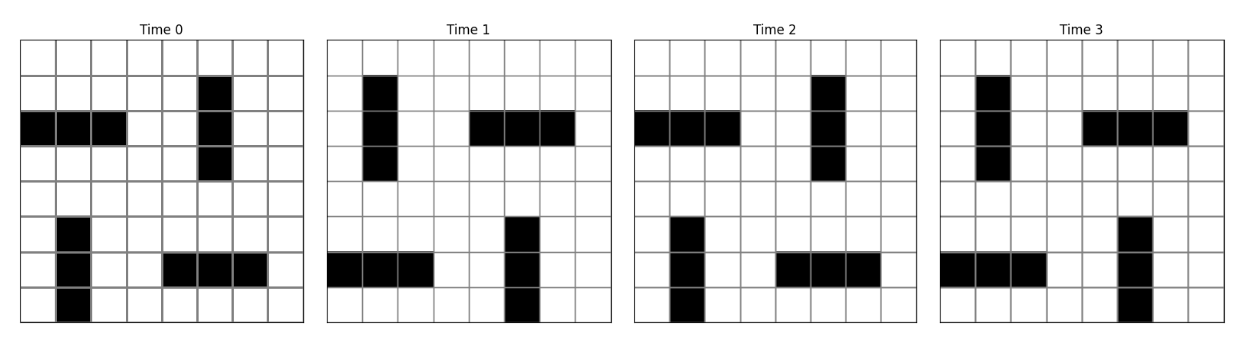
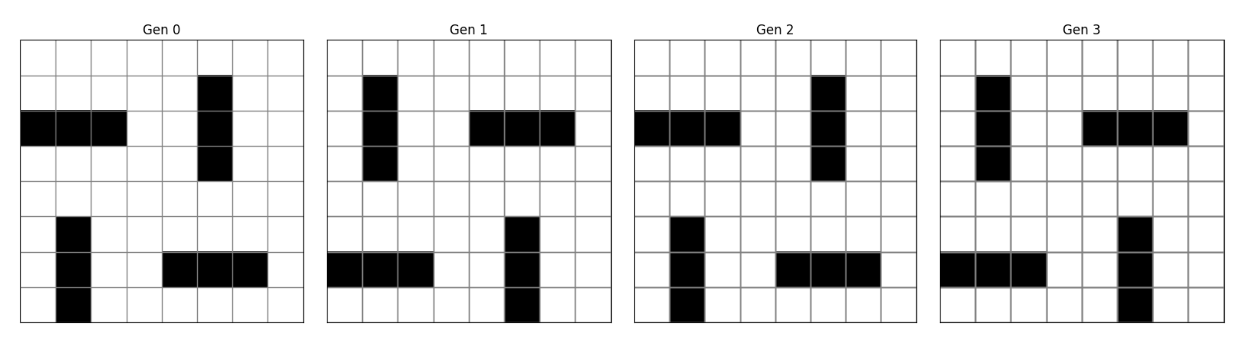
Add octagon_2 image

diff --git a/animated.py b/animated.py
@@ -3,7 +3,7 @@ import matplotlib.animation as animation
 import numpy as np
 
 # Leemos el archivo .log
-name = 'mazing'
+name = 'octagon_2'
 size= 8
 with open(f'logs/{name}.log', 'r') as file:
     lines = file.readlines()
@@ -28,9 +28,9 @@ fig, ax = plt.subplots()
 
 def animate(i):
     ax.imshow(boards[i], cmap='binary', vmin=0, vmax=1)
-    ax.set_title(f"Time {i}")  # Ajusta el título para mostrar el paso de tiempo actual
+    ax.set_title(f"Gen {i}")  # Ajusta el título para mostrar el paso de tiempo actual
     
-    if i < 4 :
+    if i < 6 :
         filename = f"{name}_{i}.png"    
         plt.savefig(filename, bbox_inches='tight')
 
@@ -44,8 +44,7 @@ def animate(i):
 
     plt.xticks([])
     plt.yticks([])
-
-  
+ 
 ani = animation.FuncAnimation(fig, animate, frames=len(boards), interval=1500, repeat=False)
 #ani.save(f'{name}.gif', writer='ffmpeg', fps=1)
 plt.show()
